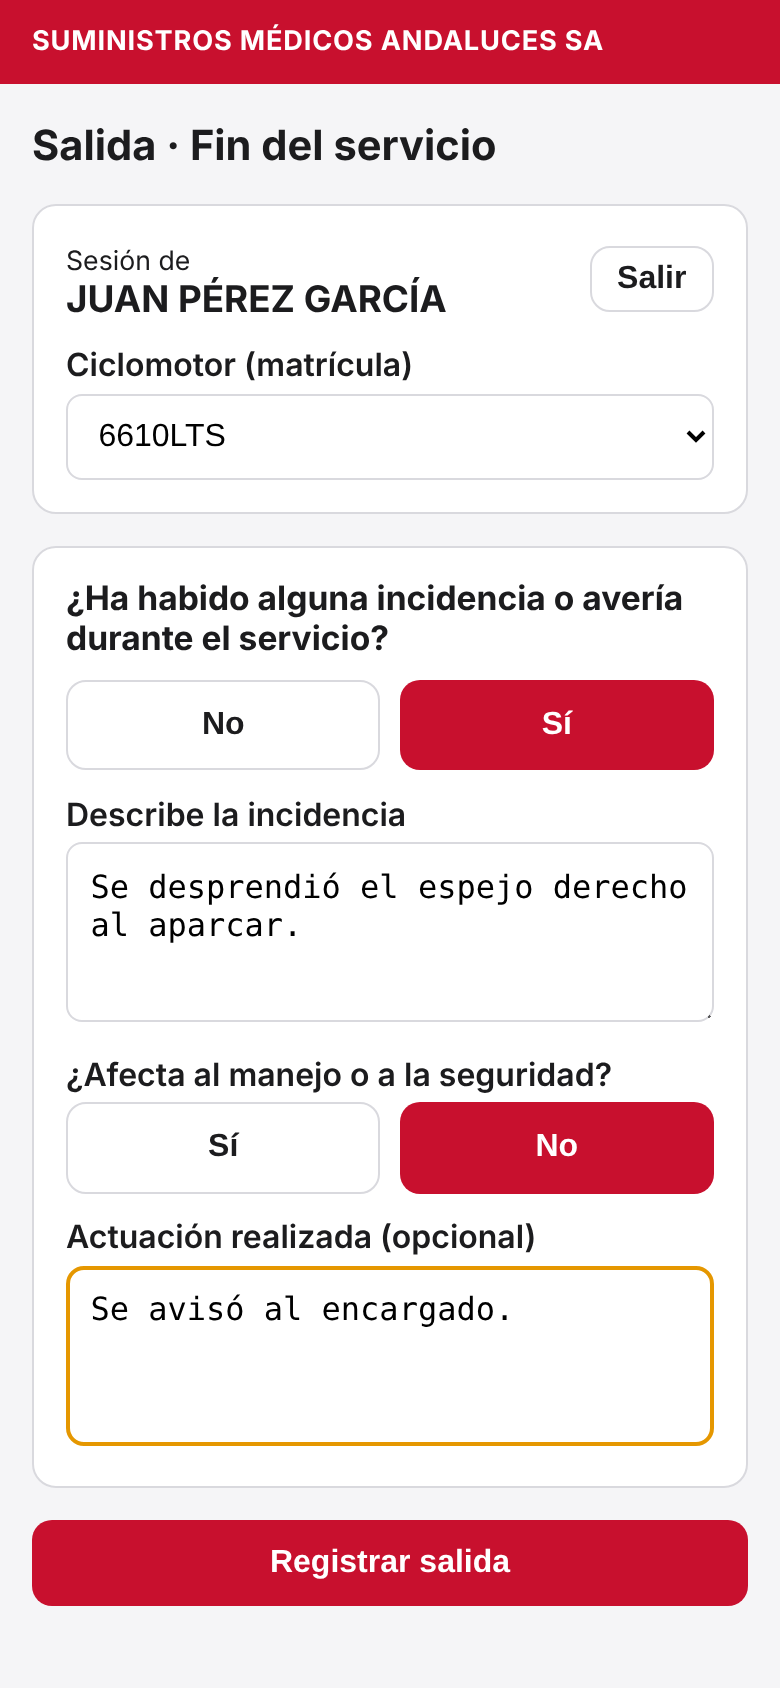
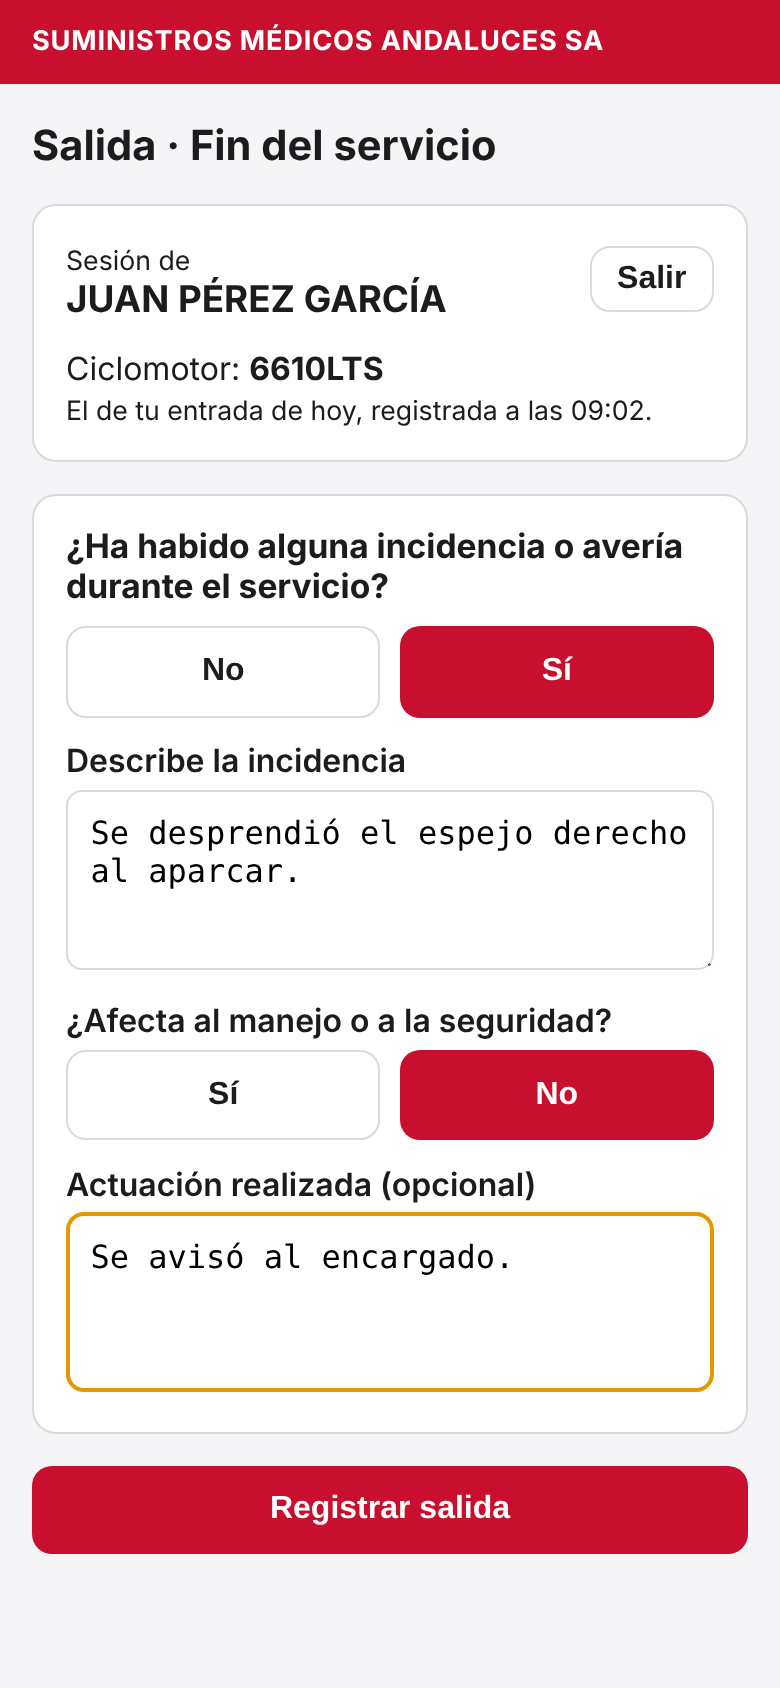
La salida exige una entrada y usa la moto de la entrada
- registrar_turno rechaza la salida sin entrada ese día (SE001) y guarda la
  moto de la entrada; entrada_del_turno informa al formulario de salida.
- Si se sustituye la entrada por otra moto, la salida de ese día se actualiza.
- Panel: la salida con entrada ese día queda fijada a su moto.
- README, esquema, changelog y capturas actualizados.

Claude-Session: https://claude.ai/code/session_012hYckvVuMk8kirB3PCbMiE

diff --git a/src/views/Salida.vue b/src/views/Salida.vue
@@ -1,13 +1,14 @@
 <script setup>
 import { computed, ref } from 'vue'
-import { MOTOS } from '../lib/config'
 import PinGate from '../components/PinGate.vue'
 import ConfirmarReemplazo from '../components/ConfirmarReemplazo.vue'
 import { supabase, configurado } from '../lib/supabase'
 
 const empleado = ref(null)
 const pin = ref('')
-const matricula = ref('')
+const entrada = ref(null) // { matricula, hora } de la entrada de este turno
+const cargandoEntrada = ref(false)
+const sinEntrada = ref(false)
 const hayIncidencia = ref(null)
 const incidencia = ref('')
 const afecta = ref(null)
@@ -17,23 +18,33 @@ const error = ref('')
 const enviado = ref(false)
 const duplicado = ref(null) // { hora } si ya existe un registro de este tipo en el día
 
-const matriculaLimpia = computed(() => matricula.value.toUpperCase().replace(/\s+/g, ' ').trim())
 const valido = computed(
   () =>
     empleado.value &&
-    matriculaLimpia.value.length >= 3 &&
+    entrada.value &&
     hayIncidencia.value !== null &&
     (!hayIncidencia.value || (incidencia.value.trim() && afecta.value !== null)),
 )
 
-function identificado(datos) {
+async function identificado(datos) {
   empleado.value = datos.empleado
   pin.value = datos.pin
+  entrada.value = null
+  sinEntrada.value = false
+  error.value = ''
+  cargandoEntrada.value = true
+  const { data, error: err } = await supabase.rpc('entrada_del_turno', { p_pin: pin.value, p_empleado: empleado.value.id })
+  cargandoEntrada.value = false
+  if (err) { error.value = 'No se pudo comprobar tu entrada. Inténtalo de nuevo.'; return }
+  if (data.length) entrada.value = data[0]
+  else sinEntrada.value = true
 }
 
 function cambiarEmpleado() {
   empleado.value = null
   pin.value = ''
+  entrada.value = null
+  sinEntrada.value = false
 }
 
 async function enviar(reemplazar = false) {
@@ -44,7 +55,7 @@ async function enviar(reemplazar = false) {
     p_pin: pin.value,
     p_empleado: empleado.value.id,
     p_tipo: 'salida',
-    p_matricula: matriculaLimpia.value,
+    p_matricula: entrada.value.matricula,
     p_checks: null,
     p_incidencia: hayIncidencia.value ? incidencia.value.trim() : null,
     p_afecta: hayIncidencia.value ? afecta.value : false,
@@ -53,6 +64,7 @@ async function enviar(reemplazar = false) {
   })
   enviando.value = false
   if (err) {
+    if (err.code === 'SE001') { sinEntrada.value = true; entrada.value = null; return }
     if (err.code === 'YA001') { duplicado.value = { hora: err.details || '' }; return }
     if (err.code === '28000') { error.value = 'Tu PIN ya no es válido. Vuelve a identificarte.'; cambiarEmpleado() }
     else error.value = 'No se pudo enviar. Inténtalo de nuevo.'
@@ -72,6 +84,15 @@ async function enviar(reemplazar = false) {
 
   <PinGate v-else-if="!empleado" @listo="identificado" />
 
+  <div v-else-if="sinEntrada" class="card">
+    <strong>{{ empleado.nombre }}</strong>
+    <div class="aviso">
+      Aún no has registrado tu entrada de hoy. Para registrar la salida, primero tienes que registrar la entrada.
+    </div>
+    <router-link class="btn full" to="/entrada">Ir a registrar la entrada</router-link>
+    <button type="button" class="sec full" style="margin-top:.6rem" @click="cambiarEmpleado">Salir</button>
+  </div>
+
   <form v-else @submit.prevent="enviar()">
     <div class="card">
       <div style="display:flex;justify-content:space-between;align-items:center;gap:.5rem">
@@ -81,11 +102,11 @@ async function enviar(reemplazar = false) {
         </div>
         <button type="button" class="sec" style="padding:.4rem .8rem" @click="cambiarEmpleado">Salir</button>
       </div>
-      <label for="m">Ciclomotor (matrícula)</label>
-      <select id="m" v-model="matricula" required>
-        <option value="" disabled>Selecciona la moto</option>
-        <option v-for="m in MOTOS" :key="m">{{ m }}</option>
-      </select>
+      <p v-if="cargandoEntrada" style="margin:.8rem 0 0">Comprobando tu entrada…</p>
+      <p v-else-if="entrada" style="margin:.8rem 0 0">
+        Ciclomotor: <strong>{{ entrada.matricula }}</strong><br />
+        <small>El de tu entrada de hoy, registrada a las {{ entrada.hora }}.</small>
+      </p>
     </div>
 
     <div class="card">

diff --git a/src/components/EditarRegistro.vue b/src/components/EditarRegistro.vue
@@ -1,8 +1,8 @@
 <script setup>
-import { computed, reactive, ref } from 'vue'
+import { computed, onMounted, reactive, ref, watch } from 'vue'
 import { ELEMENTOS, MOTOS } from '../lib/config'
 import { supabase } from '../lib/supabase'
-import { instanteDeDia, registroExistente, fechaCorta } from '../lib/dias'
+import { instanteDeDia, registroExistente, fechaCorta, entradaDelDia } from '../lib/dias'
 
 const props = defineProps({
   registro: { type: Object, required: true },
@@ -22,11 +22,27 @@ const incidencia = ref(r.incidencia ?? '')
 const afecta = ref(Boolean(r.afecta_seguridad))
 const actuacion = ref(r.actuacion ?? '')
 const guardando = ref(false)
+const motoEntrada = ref(null) // en una salida: la moto de la entrada de ese día
 const error = ref('')
 
 const motos = computed(() => (MOTOS.includes(matricula.value) ? MOTOS : [matricula.value, ...MOTOS]))
 const esEntrada = r.tipo === 'entrada'
 const hayMal = computed(() => esEntrada && Object.values(checks).some((v) => v === false))
+// Una salida debe llevar la moto de la entrada de ese mismo día
+async function buscarMotoEntrada() {
+  motoEntrada.value = null
+  if (r.tipo !== 'salida' || !empleadoId.value || !dia.value) return
+  try {
+    const e = await entradaDelDia({ empleadoId: empleadoId.value, dia: dia.value })
+    motoEntrada.value = e?.matricula ?? null
+    if (e) matricula.value = e.matricula
+  } catch {
+    motoEntrada.value = null
+  }
+}
+onMounted(buscarMotoEntrada)
+watch([empleadoId, dia], buscarMotoEntrada)
+
 const valido = computed(() => empleadoId.value && dia.value && matricula.value && (!hayMal.value || incidencia.value.trim()))
 
 async function guardar() {
@@ -56,8 +72,13 @@ async function guardar() {
   }
   if (dia.value !== r.dia) cambios.created_at = instanteDeDia(dia.value, r.tipo) // si se cambia de día, se mueve la hora con él
   const { error: err } = await supabase.from('registros').update(cambios).eq('id', r.id)
+  if (err) { guardando.value = false; error.value = 'No se pudo guardar los cambios.'; return }
+  // Si se cambia la moto de una entrada, la salida de ese día pasa a llevar la misma
+  if (esEntrada) {
+    await supabase.from('registros').update({ matricula: matricula.value })
+      .eq('empleado_id', emp.id).eq('tipo', 'salida').eq('dia', dia.value)
+  }
   guardando.value = false
-  if (err) { error.value = 'No se pudo guardar los cambios.'; return }
   emit('guardado')
 }
 </script>
@@ -79,9 +100,10 @@ async function guardar() {
       </div>
     </div>
     <label>Ciclomotor</label>
-    <select v-model="matricula" required>
+    <select v-model="matricula" required :disabled="Boolean(motoEntrada)">
       <option v-for="m in motos" :key="m">{{ m }}</option>
     </select>
+    <small v-if="motoEntrada">La salida usa la moto de la entrada de ese día. Para cambiarla, modifica la entrada.</small>
 
     <template v-if="esEntrada">
       <label>Estado de la moto</label>

diff --git a/src/components/AnadirRegistro.vue b/src/components/AnadirRegistro.vue
@@ -1,8 +1,8 @@
 <script setup>
-import { computed, reactive, ref } from 'vue'
+import { computed, reactive, ref, watch } from 'vue'
 import { ELEMENTOS, MOTOS } from '../lib/config'
 import { supabase } from '../lib/supabase'
-import { instanteDeDia, registroExistente, fechaCorta } from '../lib/dias'
+import { instanteDeDia, registroExistente, fechaCorta, entradaDelDia } from '../lib/dias'
 
 const props = defineProps({ empleados: { type: Array, required: true } })
 const emit = defineEmits(['guardado'])
@@ -14,6 +14,7 @@ const empleadoId = ref('')
 const fecha = ref('')
 const tipo = ref('entrada')
 const matricula = ref('')
+const motoEntrada = ref(null) // moto de la entrada de ese día, si ya existe (la salida debe usarla)
 const checks = reactive(Object.fromEntries(ELEMENTOS.map((e) => [e.key, true])))
 const incidencia = ref('')
 const afecta = ref(false)
@@ -26,6 +27,19 @@ const matriculaLimpia = computed(() => matricula.value.toUpperCase().replace(/\s
 const valido = computed(
   () => empleadoId.value && fecha.value && matriculaLimpia.value.length >= 3 && (!hayMal.value || incidencia.value.trim()),
 )
+
+// La salida lleva la moto de la entrada de ese día
+watch([empleadoId, fecha, tipo], async () => {
+  motoEntrada.value = null
+  if (tipo.value !== 'salida' || !empleadoId.value || !fecha.value) return
+  try {
+    const e = await entradaDelDia({ empleadoId: empleadoId.value, dia: fecha.value })
+    motoEntrada.value = e?.matricula ?? null
+    if (e) matricula.value = e.matricula
+  } catch {
+    motoEntrada.value = null
+  }
+})
 
 async function guardar() {
   error.value = ''
@@ -91,12 +105,15 @@ async function guardar() {
         </div>
         <div>
           <label>Ciclomotor</label>
-          <select v-model="matricula" required>
+          <select v-model="matricula" required :disabled="Boolean(motoEntrada)">
             <option value="" disabled>Selecciona</option>
             <option v-for="m in MOTOS" :key="m">{{ m }}</option>
           </select>
         </div>
       </div>
+
+      <p v-if="tipo === 'salida' && motoEntrada"><small>La salida usa la moto de la entrada de ese día ({{ motoEntrada }}).</small></p>
+      <p v-else-if="tipo === 'salida' && empleadoId && fecha"><small>⚠ Ese empleado no tiene entrada ese día. Si puedes, añade primero la entrada.</small></p>
 
       <template v-if="tipo === 'entrada'">
         <label>Estado de la moto ese día</label>

diff --git a/src/lib/dias.js b/src/lib/dias.js
@@ -34,3 +34,17 @@ export async function registroExistente({ empleadoId, tipo, dia, exceptoId = nul
   if (error) throw error
   return data[0] ?? null
 }
+
+// Moto de la entrada de ese empleado ese día (o null si no hay entrada)
+export async function entradaDelDia({ empleadoId, dia }) {
+  const { data, error } = await supabase
+    .from('registros')
+    .select('matricula')
+    .eq('empleado_id', empleadoId)
+    .eq('tipo', 'entrada')
+    .eq('dia', dia)
+    .order('created_at', { ascending: false })
+    .limit(1)
+  if (error) throw error
+  return data[0] ?? null
+}

diff --git a/README.md b/README.md
@@ -62,7 +62,7 @@ Hay **dos códigos QR**, uno para cada momento del turno:
 | QR | Ruta | Qué se registra |
 |---|---|---|
 | **Entrada** | `/#/entrada` | Revisión previa de los 11 elementos de la moto (Bien / Mal) y, si algo falla, la incidencia y si afecta a la seguridad. |
-| **Salida** | `/#/salida` | Fin del servicio y, si la hubo, la incidencia o avería ocurrida durante el reparto. |
+| **Salida** | `/#/salida` | Fin del servicio y, si la hubo, la incidencia o avería ocurrida durante el reparto. Solo se puede registrar si ese día hay una entrada, y usa la moto de la entrada. |
 
 El administrador entra en `/#/admin` con su contraseña.
 
@@ -70,7 +70,8 @@ El administrador entra en `/#/admin` con su contraseña.
 
 **Para los empleados**
 - Acceso con **PIN personal de 4 dígitos** (único e intransferible): no hay que escribir el nombre, la aplicación sabe quién es.
-- Selección de la **moto** entre las disponibles.
+- Selección de la **moto** entre las disponibles al registrar la entrada.
+- La **salida** solo se puede registrar si ese día ya hay una **entrada**, y se hace automáticamente **con la moto de la entrada**: no hay que volver a elegirla.
 - Checklist de 11 elementos con botones grandes **Bien / Mal**, pensado para usarse con una mano.
 - Si hay un elemento en mal estado, pide una descripción y avisa de que, si afecta a la seguridad, **no debe usarse la moto** hasta su revisión.
 - Si ya registró la entrada (o la salida) de ese día, la aplicación **avisa antes de guardar** y pregunta si quiere sustituirla por la nueva.
@@ -87,10 +88,11 @@ El administrador entra en `/#/admin` con su contraseña.
 
 Pensadas para el día a día real de la tienda:
 
+- **La salida exige una entrada.** Un empleado solo puede registrar la salida si ese día de trabajo ya registró su entrada; si no, la aplicación se lo indica y le lleva a registrarla. La salida se guarda siempre **con la moto de la entrada**. Si la entrada se sustituye por otra con distinta moto, la salida de ese día se actualiza también.
 - **Un registro de entrada y uno de salida por empleado y día.** No se pueden crear dos entradas, ni dos salidas, para el mismo día. Vale tanto para los empleados como para el administrador.
 - **Aviso antes de sustituir.** Si un empleado intenta registrar una entrada (o salida) cuando ya tiene una ese día, ve un mensaje como *«Ya registraste tu entrada de hoy (a las 09:02). ¿Quieres sustituirla por esta nueva entrada ahora mismo?»*. Si confirma, la anterior se sustituye por la nueva; si cancela, no cambia nada.
 - **Turnos de madrugada.** Como el reparto puede terminar pasada la medianoche, **las salidas registradas hasta la 1:30 de la madrugada (hora de Madrid) cuentan para el día anterior**. Así la salida queda en el mismo día de trabajo que su entrada, en el listado y en la hoja PDF. La hora real se conserva y el panel la marca como *«madrugada siguiente»*.
-- **El administrador tiene la última palabra.** Puede modificar o eliminar cualquier registro. Al modificarlo se aplican las mismas reglas: no puede dejar dos registros del mismo tipo en un día. Eliminar pide confirmación y no se puede deshacer.
+- **El administrador tiene la última palabra.** Puede modificar o eliminar cualquier registro. Si una salida tiene su entrada ese día, su moto queda fijada a la de la entrada. Al modificarlo se aplican las mismas reglas: no puede dejar dos registros del mismo tipo en un día. Eliminar pide confirmación y no se puede deshacer.
 
 ## Capturas de pantalla
 
@@ -115,6 +117,12 @@ Pensadas para el día a día real de la tienda:
 
 <p align="center">
   <img src="docs/img/08-duplicado.png" alt="Aviso: ya existe una entrada hoy, ¿quieres sustituirla?" width="300">
+</p>
+
+### Salida sin haber registrado la entrada
+
+<p align="center">
+  <img src="docs/img/11-sin-entrada.png" alt="Aviso: primero hay que registrar la entrada" width="300">
 </p>
 
 ### Panel de administración
@@ -179,7 +187,7 @@ flowchart TB
     end
 
     subgraph Supabase["☁ Supabase"]
-        R["Funciones RPC<br/>verificar_pin · registrar_turno"]
+        R["Funciones RPC<br/>verificar_pin · entrada_del_turno<br/>registrar_turno"]
         AU["Auth (administrador)"]
         DB[("PostgreSQL + RLS<br/>empleados · registros")]
     end
@@ -191,7 +199,7 @@ flowchart TB
     A --> P
 ```
 
-Los empleados **no leen ni escriben directamente en las tablas**: solo pueden llamar a dos funciones, que comprueban el PIN y aplican las reglas (un registro por día, turnos de madrugada) en el servidor. El administrador se autentica con Supabase Auth y es el único con acceso a la lista de empleados.
+Los empleados **no leen ni escriben directamente en las tablas**: solo pueden llamar a dos funciones, que comprueban el PIN y aplican las reglas (un registro por día, la salida con la moto de la entrada, turnos de madrugada) en el servidor. El administrador se autentica con Supabase Auth y es el único con acceso a la lista de empleados.
 
 ## Estructura del proyecto
 

diff --git a/CHANGELOG.md b/CHANGELOG.md
@@ -3,6 +3,14 @@
 Todos los cambios relevantes del proyecto se documentan en este archivo.
 El formato sigue [Keep a Changelog](https://keepachangelog.com/es-ES/1.1.0/).
 
+## [1.2.0] - 2026-10-09
+
+### Añadido
+- **La salida solo se puede registrar si ese día hay una entrada** del empleado. Si no la hay, la aplicación lo indica y ofrece ir a registrarla.
+- **La salida usa siempre la moto de la entrada** (el empleado ya no la elige). Si la entrada se sustituye por otra moto, la salida de ese día se actualiza.
+- En el panel de administración, las salidas con entrada ese día quedan fijadas a la moto de la entrada.
+- Función `entrada_del_turno`, que indica al formulario de salida la entrada y la moto del turno.
+
 ## [1.1.0] - 2026-10-09
 
 ### Añadido
